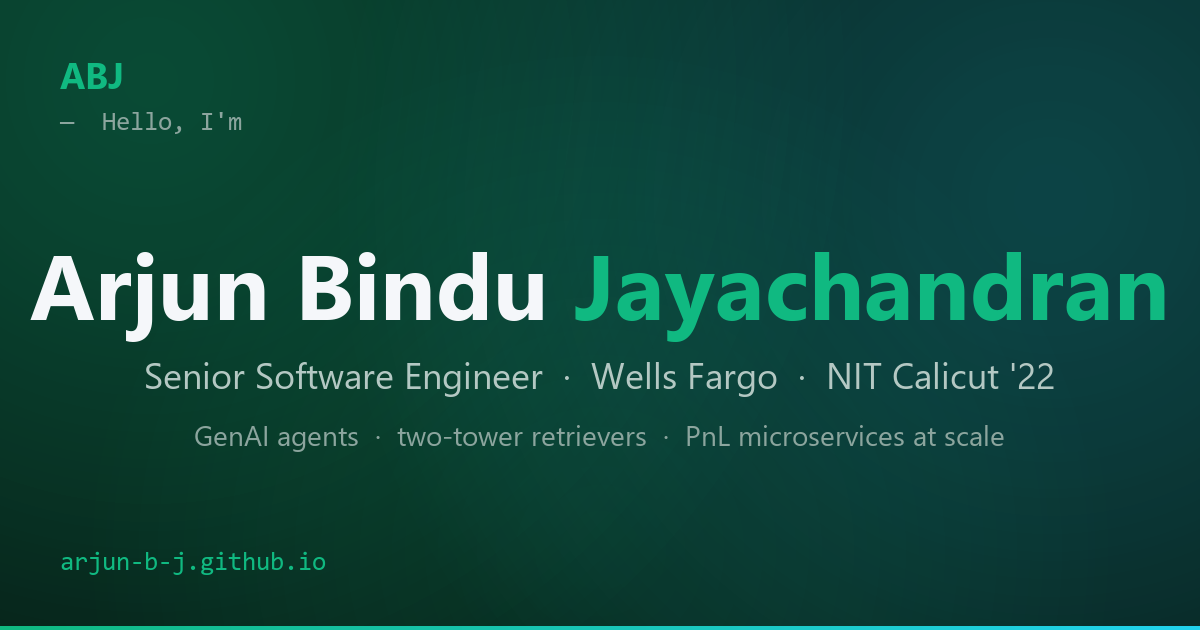
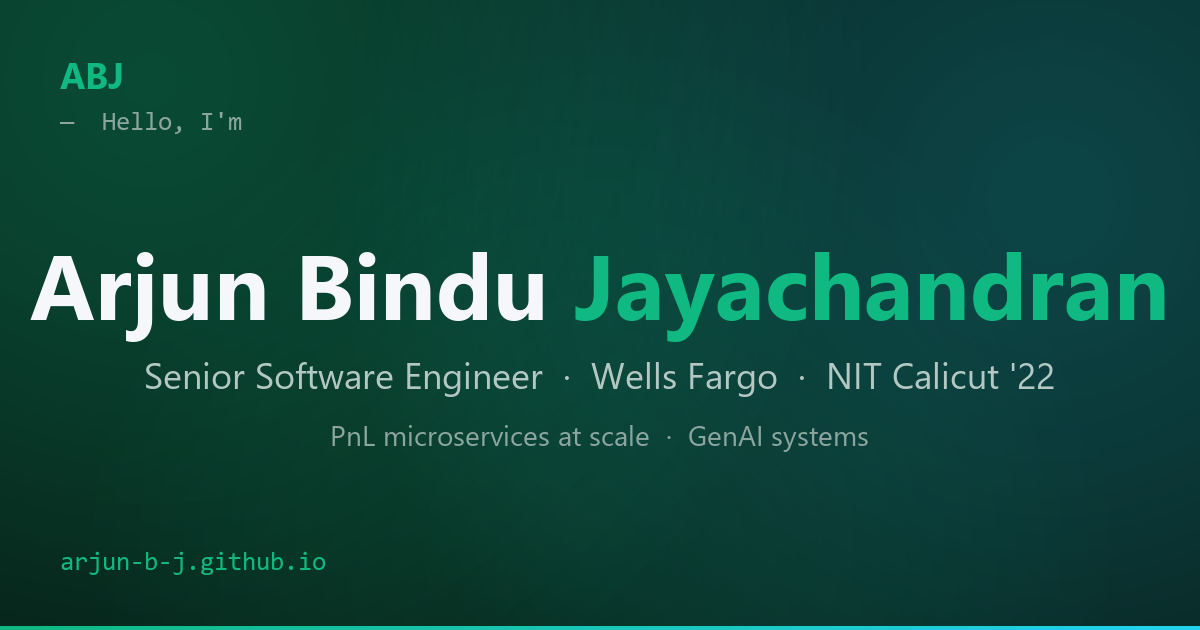
Reorder hero tagline + OG image + meta: lead with PnL microservices, replace 'agents' with 'systems', drop two-tower

Changed region(s): [[0.1542, 0.6635, 0.8325, 0.7238]]

diff --git a/index.html b/index.html
@@ -3,11 +3,11 @@
 <head>
   <meta charset="UTF-8" />
   <meta name="viewport" content="width=device-width, initial-scale=1.0" />
-  <meta name="description" content="Arjun Bindu Jayachandran — Senior Software Engineer at Wells Fargo. Building GenAI and backend platforms for regulated fintech." />
+  <meta name="description" content="Arjun Bindu Jayachandran — Senior Software Engineer at Wells Fargo. Building PnL microservices at scale and GenAI systems for regulated fintech." />
   <meta name="theme-color" content="#061812" />
 
   <meta property="og:title" content="Arjun Bindu Jayachandran · Senior Software Engineer" />
-  <meta property="og:description" content="Building GenAI and backend platforms for regulated fintech — two-tower retrievers, LangGraph agents, PnL microservices at scale." />
+  <meta property="og:description" content="Building PnL microservices at scale and GenAI systems for regulated fintech — LangGraph orchestration, agentic retrieval, high-throughput backends." />
   <meta property="og:type" content="website" />
   <meta property="og:url" content="https://arjun-b-j.github.io" />
   <meta property="og:image" content="https://arjun-b-j.github.io/og-image.png" />
@@ -17,7 +17,7 @@
 
   <meta name="twitter:card" content="summary_large_image" />
   <meta name="twitter:title" content="Arjun Bindu Jayachandran · Senior Software Engineer" />
-  <meta name="twitter:description" content="GenAI · two-tower retrievers · LangGraph agents · PnL microservices at scale." />
+  <meta name="twitter:description" content="PnL microservices at scale · GenAI systems · LangGraph orchestration." />
   <meta name="twitter:image" content="https://arjun-b-j.github.io/og-image.png" />
 
   <title>Arjun Bindu Jayachandran · Senior Software Engineer</title>
@@ -57,7 +57,7 @@
         <h1 class="hero__name reveal">Arjun Bindu <span class="grad">Jayachandran</span></h1>
         <p class="hero__title reveal">Senior Software Engineer · <span class="hero__org">Wells Fargo</span> · Bengaluru</p>
         <p class="hero__tagline reveal">
-          Building <span class="accent">GenAI</span> and <span class="accent">backend platforms</span> for regulated fintech — two-tower retrievers, LangGraph agents, and PnL microservices that hold up under real trade load.
+          Building <span class="accent">PnL microservices at scale</span> and <span class="accent">GenAI systems</span> for regulated fintech — LangGraph orchestration, agentic retrieval, and high-throughput backends that hold up under real trade load.
         </p>
         <div class="hero__cta reveal">
           <a href="Arjun_Bindu_Jayachandran_Resume.pdf" download class="btn btn--primary">

diff --git a/og-image-gen.py b/og-image-gen.py
@@ -82,7 +82,7 @@ role = "Senior Software Engineer  ·  Wells Fargo  ·  NIT Calicut '22"
 draw.text(((W - text_w(role, role_font)) // 2, name_y + 130), role, fill=SUB, font=role_font)
 
 # Tagline (centered)
-tag = "GenAI agents  ·  two-tower retrievers  ·  PnL microservices at scale"
+tag = "PnL microservices at scale  ·  GenAI systems"
 draw.text(((W - text_w(tag, tagline_font)) // 2, name_y + 195), tag, fill=DIM, font=tagline_font)
 
 # URL bottom-left
